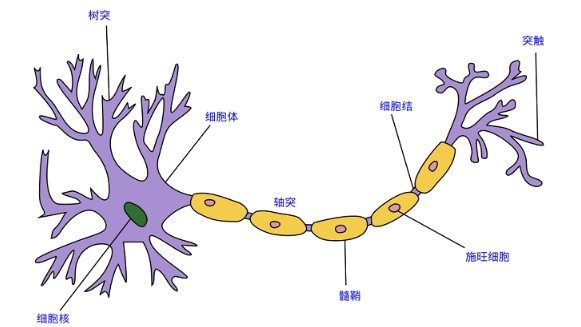
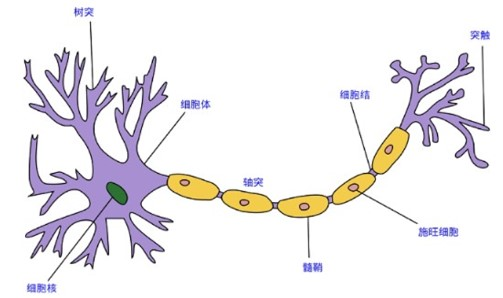
update images

diff --git a/1-feedforward_network/feedforward_network.md b/1-feedforward_network/feedforward_network.md
@@ -23,23 +23,23 @@
 &nbsp;&nbsp;&nbsp;&nbsp;&nbsp;&nbsp;&nbsp;&nbsp;现代神经网络是一种**非线性统计性**数据建模工具，神经网络通常是通过一个基于数学统计学类型的学习方法（learning method）得以优化，所以也是数学统计学方法的一种实际应用，通过统计学的标准数学方法我们能够得到大量的可以用函数来表达的局部结构空间，另一方面在人工智能学的人工感知领域，我们通过数学统计学的应用可以来做人工感知方面的决定问题（也就是说通过统计学的方法，人工神经网络能够类似人一样具有简单的决定能力和简单的判断能力），这种方法比起正式的逻辑学推理演算更具有优势。<br>
 
 ## 1.5 前馈神经网络的概念
-&nbsp;&nbsp;&nbsp;&nbsp;&nbsp;&nbsp;&nbsp;&nbsp;深度前馈网络（deep feedforward network), 也叫作前馈神经网络（feedforward neural network）或者多层感知机（multilayer perceptron, MLP), 是典型的深度学习模型。 <br>
+&nbsp;&nbsp;&nbsp;&nbsp;&nbsp;&nbsp;&nbsp;&nbsp;深度前馈网络（deep feedforward network), 也叫作前馈神经网络（feedforward neural network）或者多层感知机(multilayer perceptron, MLP), 是典型的深度学习模型。 <br>
 
 
 # 2 神经元模型
 ## 2.1 M-P 神经元
-1943 年，[McCulloch and Pitts, 1943] 将神经元抽象为数学概念上的的简单模型，这就是一直沿用至今的 **M-P 神经元模型：** <br>
-
 **生物学中的神经元**
 
-![生物学神经元](images/feedforward-network-figure0.jpg)
+![神经元模型](images/feedforward-network-figure0.jpg)
+
+1943 年，[McCulloch and Pitts, 1943] 将神经元抽象为数学概念上的的简单模型，这就是一直沿用至今的 **M-P 神经元模型：** <br>
 
 ![神经元模型](images/feedforward-network-figure3.jpg)
 
-&nbsp;&nbsp;&nbsp;&nbsp;&nbsp;&nbsp;&nbsp;&nbsp;在这个模型中， 神经元接收到来自 $n$ 个其他神经元传递过来的输入信号, 这些输入信号通过带权重的连接(onnection)进行传递，神经元接收到的总输入值(sum)将与神经元的阀值进行比较，然后通过**激活函数(activation function)** 处理以产生神经元的输出。<br>
+&nbsp;&nbsp;&nbsp;&nbsp;&nbsp;&nbsp;&nbsp;&nbsp;在这个模型中， 神经元接收到来自 n 个其他神经元传递过来的输入信号, 这些输入信号通过带权重的连接(onnection)进行传递，神经元接收到的总输入值(sum)将与神经元的阀值进行比较，然后通过**激活函数(activation function)** 处理以产生神经元的输出。<br>
 
 ## 2.2 经典激活函数
-&nbsp;&nbsp;&nbsp;&nbsp;&nbsp;&nbsp;&nbsp;&nbsp;最初的激活函数是下图左所示的阶跃函数，它将输入值映射为输出值 0 或 1, 显然 "1" 对应于神经元兴奋， "0" 对应于神经元抑制. 然而，阶跃函数具有不连续、不光滑等不太好的性质，因此实际常用Sigmoid函数作为激活函数(注释：目前已经有很多更好的激活函数)。 典型的Sigmoid 函数如图下图右所示， 它把可能在较大范围内变化的输入值挤压到(0，1) 输出值范围内，因此有时也称为"挤压函数" (squashing function）。<br>
+&nbsp;&nbsp;&nbsp;&nbsp;&nbsp;&nbsp;&nbsp;&nbsp;最初的激活函数是下图左所示的阶跃函数，它将输入值映射为输出值 0 或 1, 显然 "1" 对应于神经元兴奋， "0" 对应于神经元抑制. 然而，阶跃函数具有不连续、不光滑等不太好的性质，因此实际常用Sigmoid函数作为激活函数(注释：目前已经有很多更好的激活函数)。 典型的Sigmoid 函数如图下图右所示， 它把可能在较大范围内变化的输入值挤压到(0，1) 输出值范围内，因此有时也称为"挤压函数（squashing function）"。<br>
 
 ![经典激活函数](images/feedforward-network-figure4.jpg)
 
